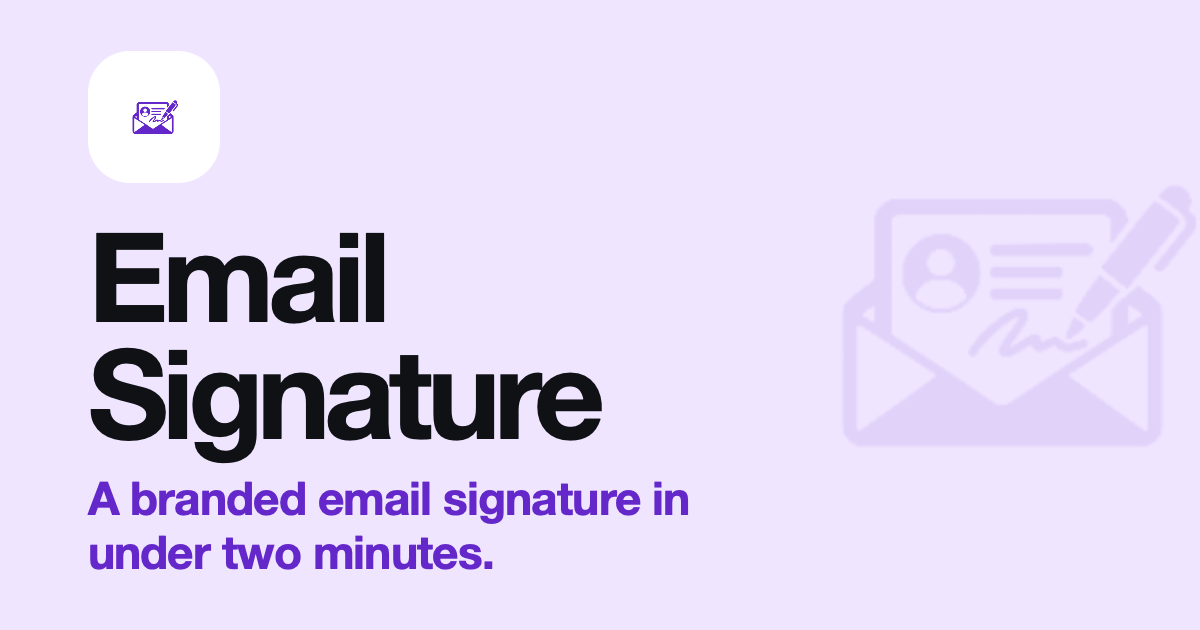
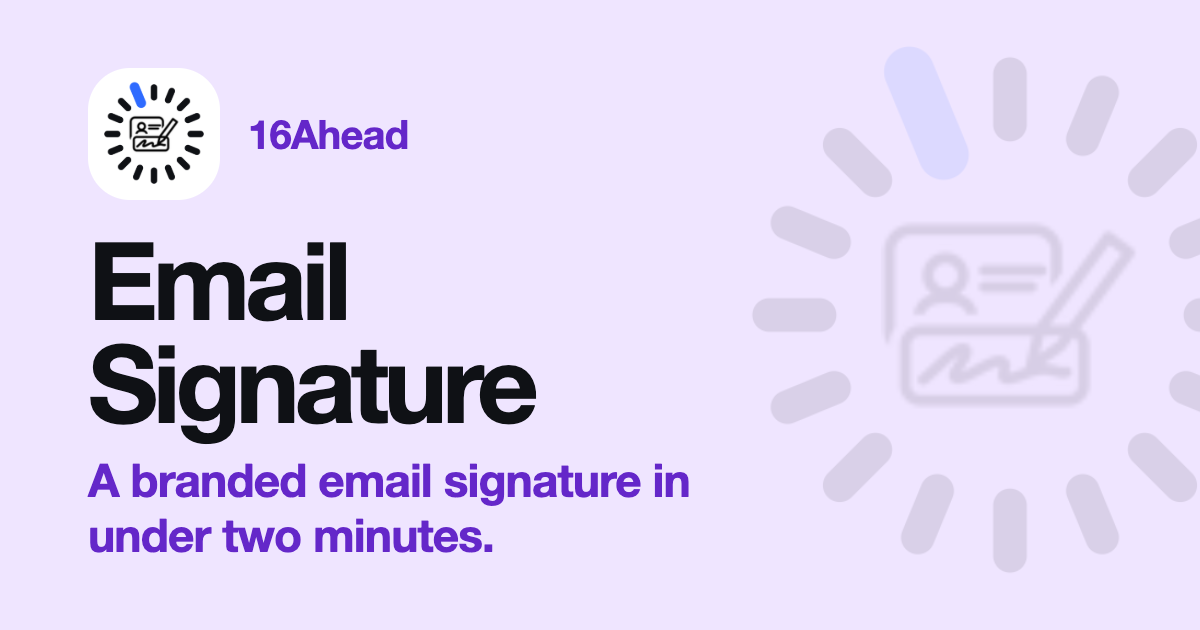
Deploy: v2026.10.28-build.1

diff --git a/src/app/shared/page/command-palette/command-palette-entries.ts b/src/app/shared/page/command-palette/command-palette-entries.ts
@@ -13,18 +13,18 @@ export interface CommandPaletteEntry {
 
 export const COMMAND_PALETTE_ENTRIES: CommandPaletteEntry[] = [
   // --- Other Apps -----------------------------------------------------------
-  { id: 'app-maya', label: 'Maya', group: 'Other Apps', path: 'https://maya.taliferro.tech', icon: 'assets/find/entities/maya/logo-bw-icon.png', keywords: ['maya', 'marketing director'] },
-  { id: 'app-todd', label: 'Ask TODD', group: 'Other Apps', path: 'https://ask.taliferro.tech', icon: 'assets/find/entities/todd/logo-bw-icon.png', keywords: ['todd', 'ask todd', 'assistant', 'chat'] },
-  { id: 'app-docs', label: 'Docs', group: 'Other Apps', path: 'https://docs.taliferro.tech', icon: 'assets/find/entities/docs/logo-bw-icon.png', keywords: ['docs', 'documents', 'proposals', 'contracts'] },
-  { id: 'app-find', label: 'Find', group: 'Other Apps', path: 'https://find.taliferro.tech', icon: 'assets/find/entities/find/logo-bw-icon.png', keywords: ['find', 'ask a question'] },
-  { id: 'app-image-creator', label: 'Image Creator', group: 'Other Apps', path: 'https://images.taliferro.tech', icon: 'assets/find/entities/image-creator/logo-bw-icon.svg', keywords: ['image creator', 'images', 'generate image', 'logo', 'icon', 'banner'] },
-  { id: 'app-email-creator', label: 'Email Creator', group: 'Other Apps', path: 'https://emails.taliferro.tech', icon: 'assets/find/entities/email-creator/logo-bw-icon.svg', keywords: ['email creator', 'email design', 'newsletter', 'html email', 'template', 'announcement'] },
-  { id: 'app-lead-vault', label: 'Lead Vault', group: 'Other Apps', path: 'https://lead-vault.taliferro.tech', icon: 'assets/find/entities/lead-vault/logo-bw-icon.png', keywords: ['lead vault', 'leads', 'purchased leads'] },
-  { id: 'app-moves', label: 'Moves', group: 'Other Apps', path: 'https://moves.taliferro.tech', icon: 'assets/find/entities/moves/logo-bw-icon.png', keywords: ['moves', 'tasks', 'projects', 'to-dos'] },
-  { id: 'app-network', label: 'Network', group: 'Other Apps', path: 'https://network.taliferro.tech', icon: 'assets/find/entities/network/logo-bw-icon.png', keywords: ['network', 'contacts', 'crm', 'relationships'] },
-  { id: 'app-outreach', label: 'Outreach', group: 'Other Apps', path: 'https://outreach.taliferro.tech', icon: 'assets/find/entities/outreach/logo-bw-icon.png', keywords: ['outreach', 'campaigns', 'sequences', 'email marketing'] },
-  { id: 'app-pulse', label: 'Pulse', group: 'Other Apps', path: 'https://pulse.taliferro.tech', icon: 'assets/find/entities/pulse/logo-bw-icon.png', keywords: ['pulse', 'surveys', 'feedback', 'nps'] },
-  { id: 'app-sayit', label: 'SayIt', group: 'Other Apps', path: 'https://sayit.taliferro.tech', icon: 'assets/find/entities/sayit/logo-bw-icon.png', keywords: ['sayit', 'say it'] },
-  { id: 'app-social', label: 'Social', group: 'Other Apps', path: 'https://social.taliferro.tech', icon: 'assets/find/entities/social/logo-bw-icon.png', keywords: ['social', 'social media'] },
+  { id: 'app-maya', label: 'Marketing Assistant', group: 'Other Apps', path: 'https://marketing.16ahead.com', icon: 'assets/find/entities/maya/logo-bw-icon.png', keywords: ['maya', 'marketing director'] },
+  { id: 'app-todd', label: 'General Assistant', group: 'Other Apps', path: 'https://assistant.16ahead.com', icon: 'assets/find/entities/todd/logo-bw-icon.png', keywords: ['todd', 'ask todd', 'assistant', 'chat'] },
+  { id: 'app-docs', label: 'Docs', group: 'Other Apps', path: 'https://docs.16ahead.com', icon: 'assets/find/entities/docs/logo-bw-icon.png', keywords: ['docs', 'documents', 'proposals', 'contracts'] },
+  { id: 'app-find', label: 'Find', group: 'Other Apps', path: 'https://find.16ahead.com', icon: 'assets/find/entities/find/logo-bw-icon.png', keywords: ['find', 'ask a question'] },
+  { id: 'app-image-creator', label: 'Image Creator', group: 'Other Apps', path: 'https://images.16ahead.com', icon: 'assets/find/entities/image-creator/logo-bw-icon.svg', keywords: ['image creator', 'images', 'generate image', 'logo', 'icon', 'banner'] },
+  { id: 'app-email-creator', label: 'Email Creator', group: 'Other Apps', path: 'https://emails.16ahead.com', icon: 'assets/find/entities/email-creator/logo-bw-icon.svg', keywords: ['email creator', 'email design', 'newsletter', 'html email', 'template', 'announcement'] },
+  { id: 'app-lead-vault', label: 'Lead Vault', group: 'Other Apps', path: 'https://lead-vault.16ahead.com', icon: 'assets/find/entities/lead-vault/logo-bw-icon.png', keywords: ['lead vault', 'leads', 'purchased leads'] },
+  { id: 'app-moves', label: 'Moves', group: 'Other Apps', path: 'https://moves.16ahead.com', icon: 'assets/find/entities/moves/logo-bw-icon.png', keywords: ['moves', 'tasks', 'projects', 'to-dos'] },
+  { id: 'app-network', label: 'Network', group: 'Other Apps', path: 'https://network.16ahead.com', icon: 'assets/find/entities/network/logo-bw-icon.png', keywords: ['network', 'contacts', 'crm', 'relationships'] },
+  { id: 'app-outreach', label: 'Outreach', group: 'Other Apps', path: 'https://outreach.16ahead.com', icon: 'assets/find/entities/outreach/logo-bw-icon.png', keywords: ['outreach', 'campaigns', 'sequences', 'email marketing'] },
+  { id: 'app-pulse', label: 'Pulse', group: 'Other Apps', path: 'https://pulse.16ahead.com', icon: 'assets/find/entities/pulse/logo-bw-icon.png', keywords: ['pulse', 'surveys', 'feedback', 'nps'] },
+  { id: 'app-sayit', label: 'SayIt', group: 'Other Apps', path: 'https://sayit.16ahead.com', icon: 'assets/find/entities/sayit/logo-bw-icon.png', keywords: ['sayit', 'say it'] },
+  { id: 'app-social', label: 'Social', group: 'Other Apps', path: 'https://social.16ahead.com', icon: 'assets/find/entities/social/logo-bw-icon.png', keywords: ['social', 'social media'] },
   { id: 'app-music', label: 'Taliferro Music', group: 'Other Apps', path: 'https://music.taliferro.com', icon: 'assets/find/entities/music/logo-bw-icon.png', newTab: true, keywords: ['music', 'stream music'] },
 ];

diff --git a/src/index.html b/src/index.html
@@ -3,33 +3,34 @@
 
 <head>
   <meta charset="utf-8">
-  <title>Email Signature Builder — Professional signatures in minutes | Taliferro Tech</title>
+  <title>Email Signature Builder — Professional signatures in minutes | 16Ahead</title>
   <base href="/">
   <meta name="viewport" content="width=device-width, initial-scale=1">
 
   <meta name="description" content="Build a polished professional email signature in minutes. Choose a template, add your logo, and copy or download HTML for Gmail, Outlook, Apple Mail, and Yahoo Mail.">
   <meta name="robots" content="index, follow">
-  <link rel="canonical" href="https://signature.taliferro.tech/">
+  <link rel="canonical" href="https://signature.16ahead.com/">
 
   <meta property="og:type" content="website">
-  <meta property="og:title" content="Email Signature Builder — Professional signatures in minutes">
+  <meta property="og:site_name" content="16Ahead">
+  <meta property="og:title" content="16Ahead Email Signature">
   <meta property="og:description" content="A branded email signature in under two minutes.">
-  <meta property="og:url" content="https://signature.taliferro.tech/">
-  <meta property="og:site_name" content="Taliferro Tech">
-
-  <meta name="twitter:card" content="summary_large_image">
-  <meta name="twitter:title" content="Email Signature Builder - from Taliferro Tech">
-  <meta name="twitter:description" content="A branded email signature in under two minutes.">
-  <meta property="og:image" content="https://signature.taliferro.tech/assets/og-image.png">
+  <meta property="og:url" content="https://signature.16ahead.com/">
+  <meta property="og:image" content="https://signature.16ahead.com/assets/og-image.png">
   <meta property="og:image:width" content="1200">
   <meta property="og:image:height" content="630">
-  <meta property="og:image:alt" content="Email Signature: A branded email signature in under two minutes">
-  <meta name="twitter:image" content="https://signature.taliferro.tech/assets/og-image.png">
-  <meta name="twitter:image:alt" content="Email Signature: A branded email signature in under two minutes">
+  <meta property="og:image:alt" content="16Ahead Email Signature: A branded email signature in under two minutes.">
+  <meta name="twitter:card" content="summary_large_image">
+  <meta name="twitter:title" content="16Ahead Email Signature">
+  <meta name="twitter:description" content="A branded email signature in under two minutes.">
+  <meta name="twitter:image" content="https://signature.16ahead.com/assets/og-image.png">
+  <meta name="twitter:image:alt" content="16Ahead Email Signature: A branded email signature in under two minutes.">
+
 
   <meta name="theme-color" content="#0f766e">
-  <link rel="icon" type="image/png" sizes="32x32" href="/favicon.png">
-  <link rel="apple-touch-icon" sizes="512x512" href="/favicon-512.png">
+  <link rel="icon" href="/assets/brand/products/png/light/15-email-signature-64.png" type="image/png" media="(prefers-color-scheme: light)">
+  <link rel="icon" href="/assets/brand/products/png/dark/15-email-signature-64.png" type="image/png" media="(prefers-color-scheme: dark)">
+  <link rel="apple-touch-icon" href="/assets/brand/products/png/light/15-email-signature.png">
   <!-- Google Analytics 4 / Email Signature Builder web stream -->
   <script>
     window.dataLayer = window.dataLayer || [];

diff --git a/src/app/signature-builder/email-signature-builder.component.html b/src/app/signature-builder/email-signature-builder.component.html
@@ -3,7 +3,7 @@
   <header class="sig-head">
     <a class="sig-brand" routerLink="/">
       <span class="sig-brand__logo"><img src="assets/email-signature-logo.png" alt="" /></span>
-      <span class="sig-brand__title"><span class="sig-brand__todd">TODD </span><span class="sig-brand__name">Email Signature</span></span>
+      <span class="sig-brand__title"><span class="sig-brand__todd">16Ahead </span><span class="sig-brand__name">Email Signature</span></span>
     </a>
     <div class="sig-head__actions">
       <span class="sig-free">Free · no sign-in</span>
@@ -18,7 +18,7 @@
         <div>
           <h1>Email Signature</h1>
           <p>Build a polished signature fast, then copy the HTML or download it for the email platform you use.</p>
-          <p class="tt-made-by"><a href="https://todd.taliferro.tech" target="_blank" rel="noopener"><span class="tt-made-by__todd"><img src="assets/todd-mark-128.png" alt="" /></span>Powered by <strong>TODD</strong></a><i aria-hidden="true"></i><a appAlsoFromUs></a></p>
+          <p class="tt-made-by"><a href="https://app.16ahead.com" target="_blank" rel="noopener"><span class="tt-made-by__todd"><img src="assets/todd-mark-128.png" alt="" /></span>Powered by <strong>16Ahead</strong></a><i aria-hidden="true"></i><a appAlsoFromUs></a></p>
         </div>
       </div>
 

diff --git a/src/app/shared/product-pages/product-pages.component.html b/src/app/shared/product-pages/product-pages.component.html
@@ -64,10 +64,10 @@
             <p>{{ item[1] }}</p>
           </article>
         </div>
-        <a *ngIf="content.key !== 'ask-todd'" class="pp-todd" href="https://ask.taliferro.tech">
+        <a *ngIf="content.key !== 'ask-todd'" class="pp-todd" href="https://assistant.16ahead.com">
           <span class="pp-todd__mark" aria-hidden="true"><span class="um-glyph" data-key="ask-todd"></span></span>
-          <span><strong>Part of TODD.</strong> TODD is a Momentum System. It turns scattered information into clear next moves.</span>
-          <span class="pp-todd__go">Ask TODD <span [innerHTML]="icon('arrow-up-right', 16)" aria-hidden="true"></span></span>
+          <span><strong>Part of 16Ahead.</strong> 16Ahead is a Momentum System. It turns scattered information into clear next moves.</span>
+          <span class="pp-todd__go">General Assistant <span [innerHTML]="icon('arrow-up-right', 16)" aria-hidden="true"></span></span>
         </a>
       </ng-template>
 

diff --git a/src/app/features/about/about.component.html b/src/app/features/about/about.component.html
@@ -17,7 +17,7 @@
 
   <section class="pp-section" aria-labelledby="sig-who-title">
     <p class="pp-kicker">Who makes it</p>
-    <h2 id="sig-who-title">Free from Taliferro Tech, as part of TODD</h2>
-    <p>Email Signature is made by Taliferro Tech in Seattle and is free to use. It is one of the TODD tools, alongside Email Creator and Image Creator.</p>
+    <h2 id="sig-who-title">Free from Taliferro Tech, as part of 16Ahead</h2>
+    <p>Email Signature is made by Taliferro Tech in Seattle and is free to use. It is one of the 16Ahead tools, alongside Email Creator and Image Creator.</p>
   </section>
 </app-product-pages>

diff --git a/src/app/shared/product-pages/product-pages.component.ts b/src/app/shared/product-pages/product-pages.component.ts
@@ -87,7 +87,7 @@ export class ProductPagesComponent implements OnInit, OnDestroy {
     return this.document.head.querySelector( 'link[rel="canonical"]' );
   }
 
-  /** "https://ask.taliferro.tech/" -> "https://ask.taliferro.tech". */
+  /** "https://assistant.16ahead.com/" -> "https://assistant.16ahead.com". */
   private siteUrl ( href: string ): string {
     try {
       return new URL( href ).origin;
